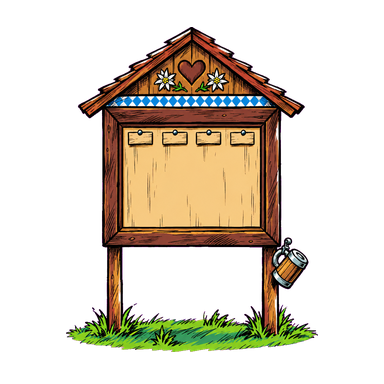
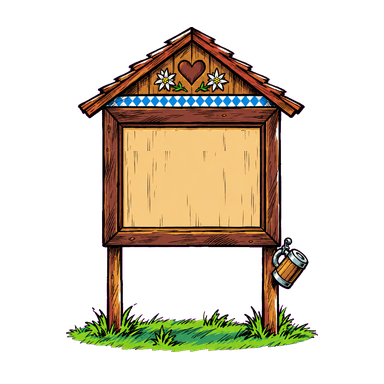
Main menu: no pale ribbon, no paper tabs, buttons inside the board
Claude-Session: https://claude.ai/code/session_01GrbNTwVienMcpmsk1Pgq12

Changed region(s): [[0.3125, 0.3125, 0.6875, 0.4062]]

diff --git a/art_source/drawn_menu/ribbon_fix.py b/art_source/drawn_menu/ribbon_fix.py
@@ -1,0 +1,36 @@
+"""Take the pale-blue ribbon out of the drawn top-right ribbons (Anthony, 18 Oct:
+'the white strip is sadly not fitting'). usage: python3 ribbon_fix.py in.png out.png"""
+import sys
+import numpy as np
+from PIL import Image, ImageFilter
+
+
+def grow(m, n):
+    return np.asarray(Image.fromarray((m * 255).astype(np.uint8)).filter(ImageFilter.MaxFilter(n))) > 0
+
+
+def shrink(m, n):
+    return np.asarray(Image.fromarray((m * 255).astype(np.uint8)).filter(ImageFilter.MinFilter(n))) > 0
+
+
+a = np.asarray(Image.open(sys.argv[1]).convert('RGBA')).astype(int)
+r, g, b, al = a[..., 0], a[..., 1], a[..., 2], a[..., 3]
+vis = al > 10
+pale = vis & (g > 150) & (b > 160) & (r > 90) & (b >= r)
+dark = vis & (r + g + b < 260)
+colour = vis & ~pale & ~dark
+kill = pale | (shrink(grow(pale, 11), 5) & ~grow(colour, 3)) | (dark & grow(pale, 7) & ~grow(colour, 7))
+# the gap between the two orange ribbons where the pale one hung: keep only the orange and its ink
+orange = vis & (r > 170) & (b < 110) & (r > g + 40)
+gap = np.zeros_like(vis)
+gap[90:222, 1280:1328] = True
+inside = shrink(grow(orange, 5), 5)  # the orange ribbons with their hatching
+kill |= gap & ~inside
+hole = gap & inside & kill  # specks the pale cut took out of the orange
+a[kill, 3] = 0
+# fill those specks, then ink a clean edge round the orange ribbons in the gap
+a[hole] = [235, 110, 35, 255]
+orange = inside
+edge = gap & grow(orange, 5) & ~orange
+a[edge] = [15, 10, 10, 255]
+Image.fromarray(a.astype(np.uint8)).save(sys.argv[2])

diff --git a/guides/DESIGNER_MANUAL.md b/guides/DESIGNER_MANUAL.md
@@ -7123,6 +7123,9 @@ sky, the clouds, the bird and the button plank.
   ribbons_bl, board).
 - The title row's Y went from 187 to 165, so STURMBALL sits in the middle of
   the drawn sign.
+- The pale-blue ribbon was taken out (`ribbon_fix.py`) and the paper tabs on
+  the board painted out. The four buttons in `MenuConfig.csv` are now 250 x 64
+  at x 971, y 720/792/864/936, so they sit inside the board's light panel.
 
 One row per thing on it. No file, no rows: it looks as it did before.
 
